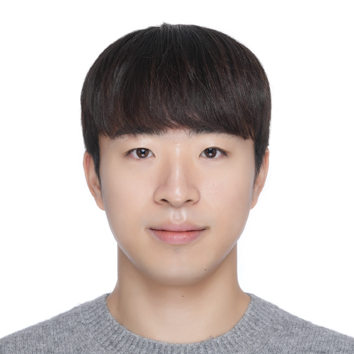
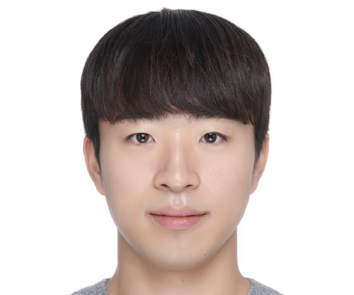
Update profile.md

diff --git a/_pages/profiles.md b/_pages/profiles.md
@@ -18,7 +18,7 @@ nav_rank: 1
 <p>
 <div id="{{member.profile.name}}" class="row" style="padding-top: 60px; margin-top: -60px;">
     <div class="col-sm-8">
-        <img style="float: right; width: 30%; padding-left: 20px;" src="{{ member.profile.image | prepend: '/assets/img/' | prepend: site.baseurl | prepend: site.url }}" alt="photo of {{member.profile.name}}">
+        <img style="float: right; width: 40%; padding-left: 20px;" src="{{ member.profile.image | prepend: '/assets/img/' | prepend: site.baseurl | prepend: site.url }}" alt="photo of {{member.profile.name}}">
         <h4>{{member.profile.name}}{% if member.profile.degrees %}, {{member.profile.degrees}} {% endif %}</h4> 
         {{member.profile.position}} <br>
         <i class="fa fa-envelope"></i> <em>{{member.profile.email}}</em> <br>
